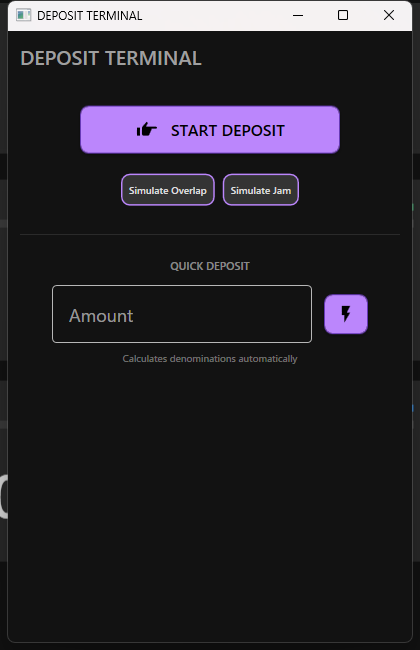
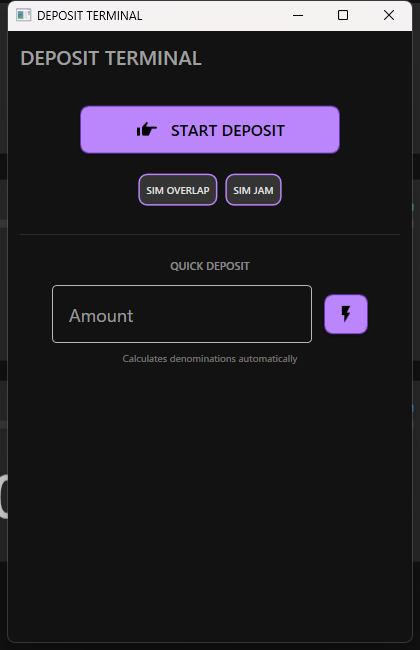
refactor: remove Hungarian notation from UI resources and localize hardcoded strings

Changed region(s): [[0.2786, 0.2462, 0.7119, 0.3385]]

diff --git a/src/CashChangerSimulator.UI.Wpf/Controls/InventoryControl.xaml b/src/CashChangerSimulator.UI.Wpf/Controls/InventoryControl.xaml
@@ -46,7 +46,7 @@
                     <StackPanel Orientation="Horizontal" HorizontalAlignment="Right" Margin="0,0,0,12">
                         <Border Background="OrangeRed" Style="{StaticResource BadgeStyle}"
                                 Visibility="{Binding IsOverlapped.Value, Converter={StaticResource VisibilityConv}}">
-                            <TextBlock Text="VAL ERROR"/>
+                            <TextBlock Text="{StaticResource ValidationError}"/>
                         </Border>
                         <Border Background="{Binding OverallStatus.Value, Converter={StaticResource StatusBrushConv}}" Style="{StaticResource BadgeStyle}">
                             <TextBlock Text="{Binding OverallStatus.Value}"/>
@@ -81,7 +81,7 @@
             <!-- Bulk Operations -->
             <Border Grid.Row="1" Style="{StaticResource CardStyle}" Margin="0,0,0,16" Padding="16">
                 <StackPanel>
-                    <TextBlock Text="BULK OPERATIONS" FontSize="11" Foreground="{StaticResource TextSecondaryBrush}" FontWeight="Black" Margin="0,0,0,12"/>
+                    <TextBlock Text="{StaticResource BulkOperations}" FontSize="11" Foreground="{StaticResource TextSecondaryBrush}" FontWeight="Black" Margin="0,0,0,12"/>
                     <UniformGrid Columns="2">
                         <Button Style="{StaticResource ModernActionButtonStyle}"
                                 Command="{Binding ReplenishAllCommand}"
@@ -91,7 +91,7 @@
                                 Margin="0,0,8,0">
                             <StackPanel Orientation="Horizontal">
                                 <materialDesign:PackIcon Kind="HandCoin" Foreground="{StaticResource SuccessBrush}" Margin="0,0,4,0"/>
-                                <TextBlock Text="FILL" Foreground="{StaticResource SuccessBrush}" FontWeight="Bold" VerticalAlignment="Center"/>
+                                <TextBlock Text="{StaticResource ActionFill}" Foreground="{StaticResource SuccessBrush}" FontWeight="Bold" VerticalAlignment="Center"/>
                             </StackPanel>
                         </Button>
 
@@ -102,7 +102,7 @@
                                 BorderBrush="OrangeRed">
                             <StackPanel Orientation="Horizontal">
                                 <materialDesign:PackIcon Kind="DeleteSweep" Foreground="OrangeRed" Margin="0,0,4,0"/>
-                                <TextBlock Text="EMPTY" Foreground="OrangeRed" FontWeight="Bold" VerticalAlignment="Center"/>
+                                <TextBlock Text="{StaticResource ActionEmpty}" Foreground="OrangeRed" FontWeight="Bold" VerticalAlignment="Center"/>
                             </StackPanel>
                         </Button>
                     </UniformGrid>
@@ -112,7 +112,7 @@
             <!-- Activity Feed -->
             <Border Grid.Row="2" Style="{StaticResource CardStyle}">
                 <DockPanel>
-                    <TextBlock DockPanel.Dock="Top" Text="ACTIVITY FEED" FontSize="11" Foreground="{StaticResource TextSecondaryBrush}" FontWeight="Black" Margin="0,0,0,16"/>
+                    <TextBlock DockPanel.Dock="Top" Text="{StaticResource ActivityFeed}" FontSize="11" Foreground="{StaticResource TextSecondaryBrush}" FontWeight="Black" Margin="0,0,0,16"/>
                     
                     <ListBox ItemsSource="{Binding RecentTransactions}" Background="Transparent" BorderThickness="0"
                              ItemContainerStyle="{StaticResource TransactionListStyle}"

diff --git a/src/CashChangerSimulator.UI.Wpf/Controls/PosTransactionControl.xaml b/src/CashChangerSimulator.UI.Wpf/Controls/PosTransactionControl.xaml
@@ -44,13 +44,13 @@
                 
                 <Grid Margin="0,8,0,0">
                     <StackPanel Orientation="Horizontal" HorizontalAlignment="Left">
-                        <TextBlock Text="Input: " FontSize="12" FontWeight="Bold"/>
+                        <TextBlock Text="{StaticResource LabelInput}" FontSize="12" FontWeight="Bold"/>
                         <TextBlock Text="{Binding CurrencyPrefix}" FontSize="12" FontWeight="Bold"/>
                         <TextBlock Text="{Binding CurrentAmount.Value, StringFormat='{}{0:N0}'}" FontSize="12" FontWeight="Bold"/>
                         <TextBlock Text="{Binding CurrencySuffix}" FontSize="12" FontWeight="Bold" Margin="2,0,0,0"/>
                     </StackPanel>
                     <StackPanel Orientation="Horizontal" HorizontalAlignment="Right">
-                        <TextBlock Text="Target: " FontSize="12" Opacity="0.6"/>
+                        <TextBlock Text="{StaticResource LabelTarget}" FontSize="12" Opacity="0.6"/>
                         <TextBlock Text="{Binding CurrencyPrefix}" FontSize="12" Opacity="0.6"/>
                         <TextBlock Text="{Binding TotalTargetAmount.Value, StringFormat='{}{0:N0}'}" FontSize="12" Opacity="0.6"/>
                         <TextBlock Text="{Binding CurrencySuffix}" FontSize="12" Opacity="0.6" Margin="2,0,0,0"/>
@@ -77,7 +77,7 @@
                                  materialDesign:HintAssist.Hint="Enter Target Amount"
                                  materialDesign:TextFieldAssist.PrefixText="{Binding CurrencyPrefix}"
                                  FontSize="24" FontWeight="Bold" Height="60" Margin="0,8,0,0"/>
-                        <TextBlock Text="{Binding CurrencySuffix}" VerticalAlignment="Bottom" HorizontalAlignment="Right" Margin="0,0,12,12" FontWeight="Bold" Foreground="{StaticResource TextSecondaryBrush}" Visibility="{Binding CurrencySuffix, Converter={StaticResource ingNullOrEmptyToVisibilityConv}}"/>
+                        <TextBlock Text="{Binding CurrencySuffix}" VerticalAlignment="Bottom" HorizontalAlignment="Right" Margin="0,0,12,12" FontWeight="Bold" Foreground="{StaticResource TextSecondaryBrush}" Visibility="{Binding CurrencySuffix, Converter={StaticResource StringNullOrEmptyToVisibilityConv}}"/>
                         <Button Style="{StaticResource PrimaryButtonStyle}" 
                                 Content="{StaticResource StartSimulation}" 
                                 Command="{Binding StartCommand}"

diff --git a/src/CashChangerSimulator.UI.Wpf/Themes/Strings.ja-JP.xaml b/src/CashChangerSimulator.UI.Wpf/Themes/Strings.ja-JP.xaml
@@ -47,6 +47,7 @@
     <!-- Terminals -->
     <system:String x:Key="DispenseTerminal">出金ターミナル</system:String>
     <system:String x:Key="DepositTerminal">入金ターミナル</system:String>
+    <system:String x:Key="BulkDeposit">一括入金</system:String>
     <system:String x:Key="AmountDispense">金額指定出金</system:String>
     <system:String x:Key="QuickDispense">クイック出金</system:String>
     <system:String x:Key="BulkDispense">一括出金</system:String>
@@ -80,6 +81,9 @@
     <system:String x:Key="HeaderNearEmpty">ニアエンプティ</system:String>
     <system:String x:Key="HeaderNearFull">ニアフル</system:String>
     <system:String x:Key="HeaderMaxCap">最大容量</system:String>
+    <system:String x:Key="HeaderNameEn">名称 (英)</system:String>
+    <system:String x:Key="HeaderNameJp">名称 (日)</system:String>
+    <system:String x:Key="HeaderRecycle">リサイクル</system:String>
 
     <!-- Bulk Input Dialog -->
     <system:String x:Key="BulkInput">一括投入</system:String>
@@ -92,4 +96,14 @@
     <system:String x:Key="UposConfig">UPOS 構成設定</system:String>
     <system:String x:Key="RealTimeData">リアルタイムデータイベントを有効にする</system:String>
     <system:String x:Key="ScriptInput">取引スクリプト (JSON)</system:String>
+
+    <system:String x:Key="SimulateOverlap">重なりシミュレート</system:String>
+    <system:String x:Key="SimulateJam">ジャムシミュレート</system:String>
+    <system:String x:Key="LabelInput">投入額: </system:String>
+    <system:String x:Key="LabelTarget">目標額: </system:String>
+    <system:String x:Key="BulkOperations">一括操作</system:String>
+    <system:String x:Key="ActionFill">満杯補充</system:String>
+    <system:String x:Key="ActionEmpty">全回収</system:String>
+    <system:String x:Key="ErrorDevicePrefix">デバイスエラー [</system:String>
+    <system:String x:Key="ErrorDeviceSuffix">]</system:String>
 </ResourceDictionary>

diff --git a/src/CashChangerSimulator.UI.Wpf/Themes/Strings.en-US.xaml b/src/CashChangerSimulator.UI.Wpf/Themes/Strings.en-US.xaml
@@ -47,6 +47,7 @@
     <!-- Terminals -->
     <system:String x:Key="DispenseTerminal">DISPENSE TERMINAL</system:String>
     <system:String x:Key="DepositTerminal">DEPOSIT TERMINAL</system:String>
+    <system:String x:Key="BulkDeposit">BULK DEPOSIT</system:String>
     <system:String x:Key="AmountDispense">AMOUNT DISPENSE</system:String>
     <system:String x:Key="QuickDispense">QUICK DISPENSE</system:String>
     <system:String x:Key="BulkDispense">BULK DISPENSE</system:String>
@@ -80,6 +81,9 @@
     <system:String x:Key="HeaderNearEmpty">N.EMPTY</system:String>
     <system:String x:Key="HeaderNearFull">N.FULL</system:String>
     <system:String x:Key="HeaderMaxCap">MAX CAP</system:String>
+    <system:String x:Key="HeaderNameEn">Name (EN)</system:String>
+    <system:String x:Key="HeaderNameJp">Name (JP)</system:String>
+    <system:String x:Key="HeaderRecycle">Recycle</system:String>
 
     <!-- Bulk Input Dialog -->
     <system:String x:Key="BulkInput">BULK INPUT</system:String>
@@ -94,4 +98,14 @@
     <system:String x:Key="UposConfig">UPOS CONFIGURATION</system:String>
     <system:String x:Key="RealTimeData">Enable Real Time Data Events</system:String>
     <system:String x:Key="ScriptInput">JSON TRANSACTION SCRIPT</system:String>
+
+    <system:String x:Key="SimulateOverlap">SIM OVERLAP</system:String>
+    <system:String x:Key="SimulateJam">SIM JAM</system:String>
+    <system:String x:Key="LabelInput">Input: </system:String>
+    <system:String x:Key="LabelTarget">Target: </system:String>
+    <system:String x:Key="BulkOperations">BULK OPERATIONS</system:String>
+    <system:String x:Key="ActionFill">FILL</system:String>
+    <system:String x:Key="ActionEmpty">EMPTY</system:String>
+    <system:String x:Key="ErrorDevicePrefix">Device Error [</system:String>
+    <system:String x:Key="ErrorDeviceSuffix">]</system:String>
 </ResourceDictionary>

diff --git a/src/CashChangerSimulator.UI.Wpf/Views/AdvancedSimulationWindow.xaml b/src/CashChangerSimulator.UI.Wpf/Views/AdvancedSimulationWindow.xaml
@@ -7,7 +7,7 @@
         xmlns:vm="clr-namespace:CashChangerSimulator.UI.Wpf.ViewModels"
         xmlns:conv="clr-namespace:CashChangerSimulator.UI.Wpf.Converters"
         mc:Ignorable="d"
-        Title="Advanced Simulation Controls" Height="500" Width="400"
+        Title="{StaticResource AdvancedSimulation}" Height="500" Width="400"
         AutomationProperties.AutomationId="AdvancedSimulationWindow"
         Background="{StaticResource BackgroundBrush}"
         TextElement.Foreground="{StaticResource TextPrimaryBrush}"
@@ -74,11 +74,11 @@
                                      Style="{StaticResource ModernTextBoxStyle}"
                                      AutomationProperties.Name="ScriptInputTextBox"
                                      AutomationProperties.AutomationId="ScriptInputTextBox"
-                                     materialDesign:HintAssist.Hint="JSON Script"
+                                     materialDesign:HintAssist.Hint="{StaticResource ScriptInput}"
                                      AcceptsReturn="True" VerticalScrollBarVisibility="Auto" Height="150" FontFamily="Consolas" Margin="0,0,0,8"/>
                             
                             <TextBlock Text="{Binding ScriptError.Value}" Foreground="{StaticResource ErrorBrush}" 
-                                       Visibility="{Binding ScriptError.Value, Converter={StaticResource ingNullOrEmptyToVisibilityConv}}" 
+                                       Visibility="{Binding ScriptError.Value, Converter={StaticResource StringNullOrEmptyToVisibilityConv}}" 
                                        FontSize="11" FontWeight="SemiBold" Margin="0,0,0,8" TextWrapping="Wrap"/>
                             
                             <Button Style="{StaticResource PrimaryButtonStyle}" 

diff --git a/src/CashChangerSimulator.UI.Wpf/Views/DepositIdleView.xaml b/src/CashChangerSimulator.UI.Wpf/Views/DepositIdleView.xaml
@@ -49,7 +49,7 @@
             </Button>
             <Button Style="{StaticResource SecondaryButtonStyle}" 
                     Command="{Binding SimulateOverlapCommand}"
-                    Content="Simulate Overlap"
+                    Content="{StaticResource SimulateOverlap}"
                     AutomationProperties.AutomationId="SimulateOverlapButton"
                     FontSize="10" Padding="8,2"
                     Margin="0,0,8,0"/>
@@ -57,7 +57,7 @@
                     Command="{Binding SimulateJamCommand}"
                     FontSize="10" Padding="8,2"
                     AutomationProperties.AutomationId="SimulateJamButton"
-                    Content="Simulate Jam"/>
+                    Content="{StaticResource SimulateJam}"/>
         </StackPanel>
 
         <Separator Background="#1AFFFFFF" Margin="0,24"/>
@@ -82,7 +82,7 @@
                     <KeyBinding Key="Enter" Command="{Binding QuickDepositCommand}"/>
                 </TextBox.InputBindings>
             </TextBox>
-            <TextBlock Text="{Binding CurrencySuffix.Value}" VerticalAlignment="Bottom" HorizontalAlignment="Right" Margin="0,0,24,12" FontWeight="Bold" Opacity="0.5" Visibility="{Binding CurrencySuffix.Value, Converter={StaticResource ingNullOrEmptyToVisibilityConv}}"/>
+            <TextBlock Text="{Binding CurrencySuffix.Value}" VerticalAlignment="Bottom" HorizontalAlignment="Right" Margin="0,0,24,12" FontWeight="Bold" Opacity="0.5" Visibility="{Binding CurrencySuffix.Value, Converter={StaticResource StringNullOrEmptyToVisibilityConv}}"/>
             <Button Grid.Column="1" 
                     Style="{StaticResource PrimaryButtonStyle}"
                     Command="{Binding QuickDepositCommand}"

diff --git a/src/CashChangerSimulator.UI.Wpf/Views/BulkAmountInputWindow.xaml b/src/CashChangerSimulator.UI.Wpf/Views/BulkAmountInputWindow.xaml
@@ -44,15 +44,15 @@
         <Border Grid.Row="2" Background="#0DFFFFFF" CornerRadius="8" Padding="8" Margin="0,0,0,16">
             <StackPanel Orientation="Horizontal" HorizontalAlignment="Center">
                 <Button Command="{Binding SimulateOverlapCommand}"
-                        Content="SIM OVERLAP" Style="{StaticResource SecondaryButtonStyle}"
+                        Content="{StaticResource SimulateOverlap}" Style="{StaticResource SecondaryButtonStyle}"
                         FontSize="9" FontWeight="Bold" Height="28" Padding="12,0" Margin="4,0"
                         Foreground="Orange" BorderBrush="Orange"/>
                 <Button Command="{Binding SimulateJamCommand}"
-                        Content="SIM JAM" Style="{StaticResource SecondaryButtonStyle}"
+                        Content="{StaticResource SimulateJam}" Style="{StaticResource SecondaryButtonStyle}"
                         FontSize="9" FontWeight="Bold" Height="28" Padding="12,0" Margin="4,0"
                         Foreground="Orange" BorderBrush="Orange"/>
                 <Button Command="{Binding ResetErrorCommand}"
-                        Content="RESET"
+                        Content="{StaticResource Reset}"
                         FontSize="9" FontWeight="Bold" Height="28" Padding="12,0" Margin="4,0">
                     <Button.Style>
                         <Style TargetType="Button" BasedOn="{StaticResource DangerButtonStyle}">

diff --git a/src/CashChangerSimulator.UI.Wpf/Views/DispenseIdleView.xaml b/src/CashChangerSimulator.UI.Wpf/Views/DispenseIdleView.xaml
@@ -31,7 +31,7 @@
                              Style="{StaticResource ModernTextBoxStyle}"
                              FontSize="22" FontWeight="Light"
                              AutomationProperties.AutomationId="DispenseBox"/>
-                    <TextBlock Grid.Column="0" Text="{Binding CurrencySuffix.Value}" VerticalAlignment="Bottom" HorizontalAlignment="Right" Margin="0,0,32,12" FontWeight="Bold" Opacity="0.5" Visibility="{Binding CurrencySuffix.Value, Converter={StaticResource ingNullOrEmptyToVisibilityConv}}"/>
+                    <TextBlock Grid.Column="0" Text="{Binding CurrencySuffix.Value}" VerticalAlignment="Bottom" HorizontalAlignment="Right" Margin="0,0,32,12" FontWeight="Bold" Opacity="0.5" Visibility="{Binding CurrencySuffix.Value, Converter={StaticResource StringNullOrEmptyToVisibilityConv}}"/>
 
                     <Button Grid.Column="1" 
                             Style="{StaticResource PrimaryButtonStyle}" 
@@ -104,7 +104,7 @@
             </Button>
             <Button Style="{StaticResource SecondaryButtonStyle}" 
                     Command="{Binding SimulateJamCommand}"
-                    Content="Simulate Jam"
+                    Content="{StaticResource SimulateJam}"
                     AutomationProperties.AutomationId="SimulateJamButton"
                     FontSize="10" Padding="8,2"/>
         </StackPanel>

diff --git a/src/CashChangerSimulator.UI.Wpf/Views/SettingsDenominationView.xaml b/src/CashChangerSimulator.UI.Wpf/Views/SettingsDenominationView.xaml
@@ -48,7 +48,7 @@
                 </DataGrid.Resources>
                 <DataGrid.Columns>
                     <DataGridTextColumn
-                        Header="Name (EN)"
+                        Header="{StaticResource HeaderNameEn}"
                         Binding="{Binding DisplayName.Value}"
                         Width="*">
                         <DataGridTextColumn.ElementStyle>
@@ -62,7 +62,7 @@
                         </DataGridTextColumn.ElementStyle>
                     </DataGridTextColumn>
                     <DataGridTextColumn
-                        Header="Name (JP)"
+                        Header="{StaticResource HeaderNameJp}"
                         Binding="{Binding DisplayNameJP.Value}"
                         Width="*">
                         <DataGridTextColumn.ElementStyle>
@@ -110,7 +110,7 @@
                         </DataGridTextColumn.CellStyle>
                     </DataGridTextColumn>
                     <DataGridCheckBoxColumn
-                        Header="Recycle"
+                        Header="{StaticResource HeaderRecycle}"
                         Binding="{Binding IsRecyclable.Value}"
                         Width="80"/>
                 </DataGrid.Columns>

diff --git a/src/CashChangerSimulator.UI.Wpf/Controls/DeviceExtensionControl.xaml b/src/CashChangerSimulator.UI.Wpf/Controls/DeviceExtensionControl.xaml
@@ -52,7 +52,7 @@
                          AutomationProperties.Name="JSON Transaction Script Input"
                          AcceptsReturn="True" VerticalScrollBarVisibility="Auto" Height="150" FontFamily="Consolas" Margin="0,0,0,8"/>
                 
-                <TextBlock Text="{Binding ScriptError.Value}" Foreground="{StaticResource ErrorBrush}" Visibility="{Binding ScriptError.Value, Converter={StaticResource ingNullOrEmptyToVisibilityConv}}" FontSize="12" FontWeight="SemiBold" Margin="0,0,0,8" TextWrapping="Wrap"/>
+                <TextBlock Text="{Binding ScriptError.Value}" Foreground="{StaticResource ErrorBrush}" Visibility="{Binding ScriptError.Value, Converter={StaticResource StringNullOrEmptyToVisibilityConv}}" FontSize="12" FontWeight="SemiBold" Margin="0,0,0,8" TextWrapping="Wrap"/>
                 
                 <Button Style="{StaticResource PrimaryButtonStyle}" 
                         Content="{StaticResource Ok}" 

diff --git a/src/CashChangerSimulator.UI.Wpf/Controls/StatusHeaderControl.xaml b/src/CashChangerSimulator.UI.Wpf/Controls/StatusHeaderControl.xaml
@@ -24,7 +24,7 @@
             <Border Background="#D32F2F" Style="{StaticResource BadgeStyle}"
                     Visibility="{Binding IsDeviceError.Value, Converter={StaticResource VisibilityConv}}">
                 <TextBlock>
-                    <Run Text="Device Error [" /><Run Text="{Binding CurrentErrorCode.Value}" /><Run Text="]" />
+                    <Run Text="{StaticResource ErrorDevicePrefix}" /><Run Text="{Binding CurrentErrorCode.Value}" /><Run Text="{StaticResource ErrorDeviceSuffix}" />
                 </TextBlock>
             </Border>
             <Border Background="#FF5252" Style="{StaticResource BadgeStyle}"

diff --git a/src/CashChangerSimulator.UI.Wpf/Views/DepositActiveView.xaml b/src/CashChangerSimulator.UI.Wpf/Views/DepositActiveView.xaml
@@ -48,7 +48,7 @@
                         AutomationProperties.AutomationId="SimulateOverlapButton">
                     <StackPanel Orientation="Horizontal">
                         <materialDesign:PackIcon Kind="LayersTripleOutline" Margin="0,0,8,0" />
-                        <TextBlock Text="{StaticResource Error}" FontSize="12" FontWeight="Bold"/>
+                        <TextBlock Text="{StaticResource JamError}" FontSize="12" FontWeight="Bold"/>
                     </StackPanel>
                 </Button>
             </Grid>
